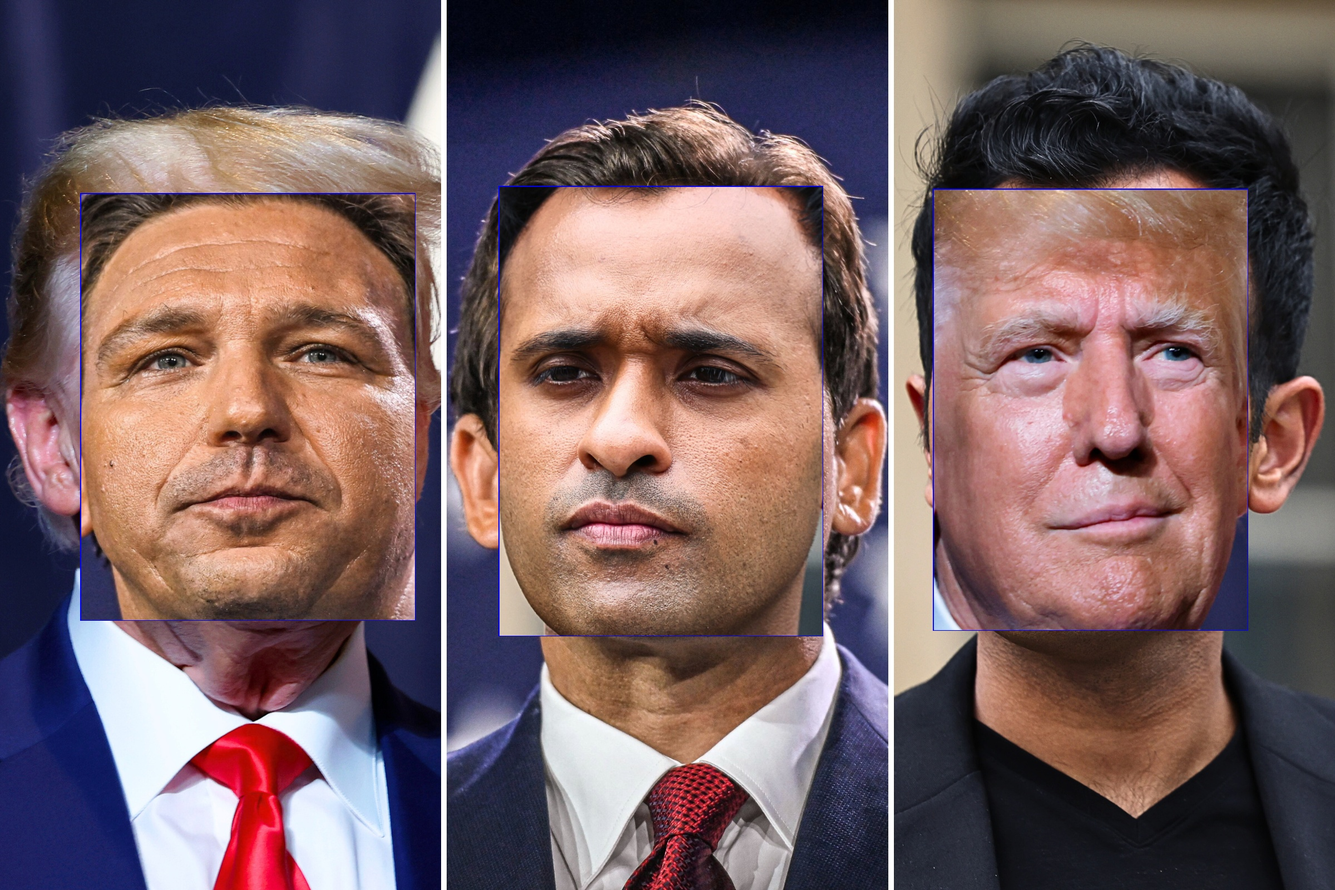
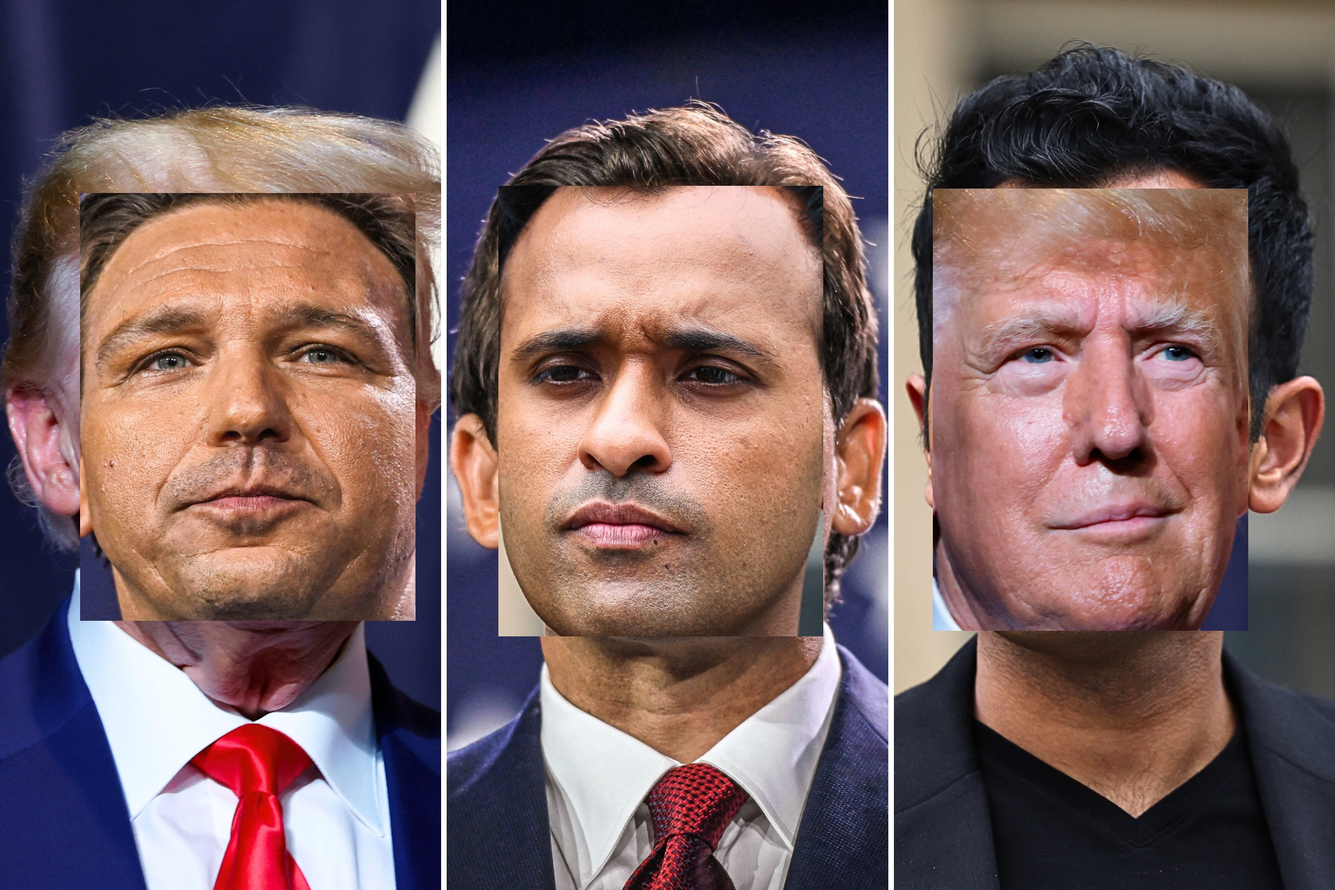
Day 10: Lab 1: getting rid of number param

Changed region(s): [[0.7188, 0.1875, 0.9375, 0.2188]]

diff --git a/Lab1/main.py b/Lab1/main.py
@@ -3,6 +3,17 @@ import argparse
 import cv2
 
 #------------------------------------------------------------------------------#
+"""
+- Image basics: saving loading
+- Drawing: rectangle
+- Image processing: crop + resize
+- Smoothing and blurring: TODO
+- Face dectect
+- Video
+
+"""
+
+#------------------------------------------------------------------------------#
 modelFile = "models/res10_300x300_ssd_iter_140000_fp16.caffemodel"
 configFile = "models/deploy.prototxt"
 net = cv2.dnn.readNetFromCaffe(configFile, modelFile)
@@ -27,14 +38,14 @@ class Face:
         # rect outline
         cv2.rectangle(image, (self.x, self.y), (self.x+self.w, self.y+self.h), color, 2)
         
-def detect_largest_faces(image, conf, count):
+def detect_largest_faces(image, conf):
     faces = detect_faces_dnn(image, conf)
     faces.sort(key=Face.calc_area, reverse=True)
     
-    if len(faces) < count:
-        raise Exception(f'Not enough faces detected. {len(faces)} detected, {count} requested.')
+    if len(faces) < 2:
+        raise Exception(f'Not enough faces detected. {len(faces)} detected, at least 2 required.')
     
-    return faces[:count]
+    return faces
     
 def detect_faces_dnn(image, conf):
     blob = cv2.dnn.blobFromImage(image, 1.0, (300, 300), [104, 117, 123], False, False)
@@ -47,7 +58,6 @@ def detect_faces_dnn(image, conf):
 
     for i in range(detections.shape[2]):
         confidence = detections[0, 0, i, 2]
-        print(confidence)
         if confidence > conf:
             x1 = int(detections[0, 0, i, 3] * screen_size[0])
             y1 = int(detections[0, 0, i, 4] * screen_size[1])
@@ -61,8 +71,12 @@ def detect_faces_dnn(image, conf):
 
 #------------------------------------------------------------------------------#
 ap = argparse.ArgumentParser()
+
 ap.add_argument("-i", "--image", required = True, help = "Path to image")
-ap.add_argument("-n", "--number", required = True, help = "Number of faces to detect")
+# ap.add_argument("-i", "--input", required = False, help = "Input type (image, video, or camera)")
+
+# ap.add_argument("-v", "--video", required = True, help = "Path to video")
+
 ap.add_argument("-c", "--conf", required = False, help = "Confidence threshold for face detection", default=0.8, type=float)
 ap.add_argument("-s", "--save", required = False, help = "Save output to path", default=None)
 # TODO: command for face mapping order
@@ -71,22 +85,22 @@ args = vars(ap.parse_args())
 original_image = cv2.imread(args["image"])
 output_image = original_image.copy()
 
-number = int(args["number"])
 conf = float(args["conf"])
 save = args["save"]
 #------------------------------------------------------------------------------#
 
 
-faces = detect_largest_faces(original_image, conf, number)
+faces = detect_largest_faces(original_image, conf)
 
-for i, face in enumerate(faces):
-    face.draw(original_image)
-    
+for i, face in enumerate(faces):    
     face_crop = original_image[face.y:face.y+face.h, face.x:face.x+face.w]
     next_face = faces[(i+1) % len(faces)]
     face_resized = cv2.resize(face_crop, (next_face.w, next_face.h))
     
     output_image[next_face.y:next_face.y+next_face.h, next_face.x:next_face.x+next_face.w] = face_resized
+
+for face in faces:
+    face.draw(original_image)
 
 if save is not None:
     cv2.imwrite(save, output_image)
@@ -95,6 +109,6 @@ if save is not None:
 cv2.imshow("Original", original_image)
 cv2.imshow("Output", output_image)
 
-cv2.waitKey(0)
+cv2.waitKey(10_000)
     
     
